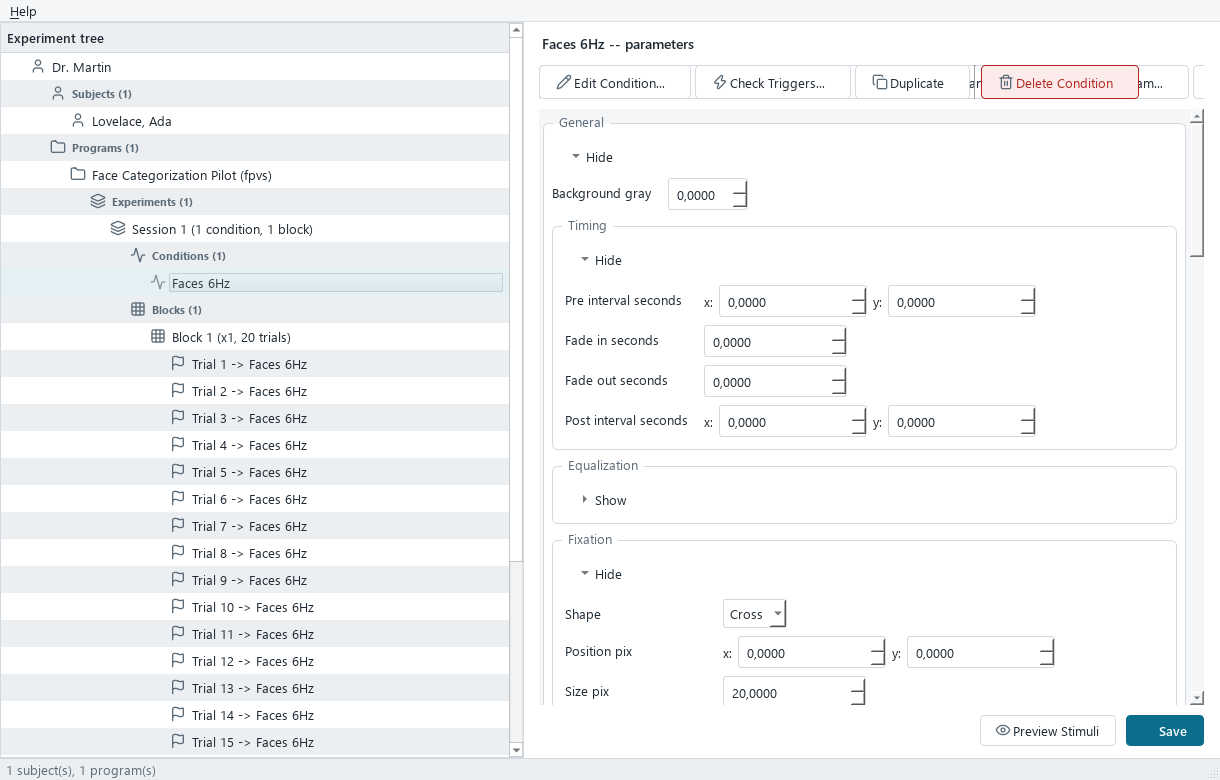
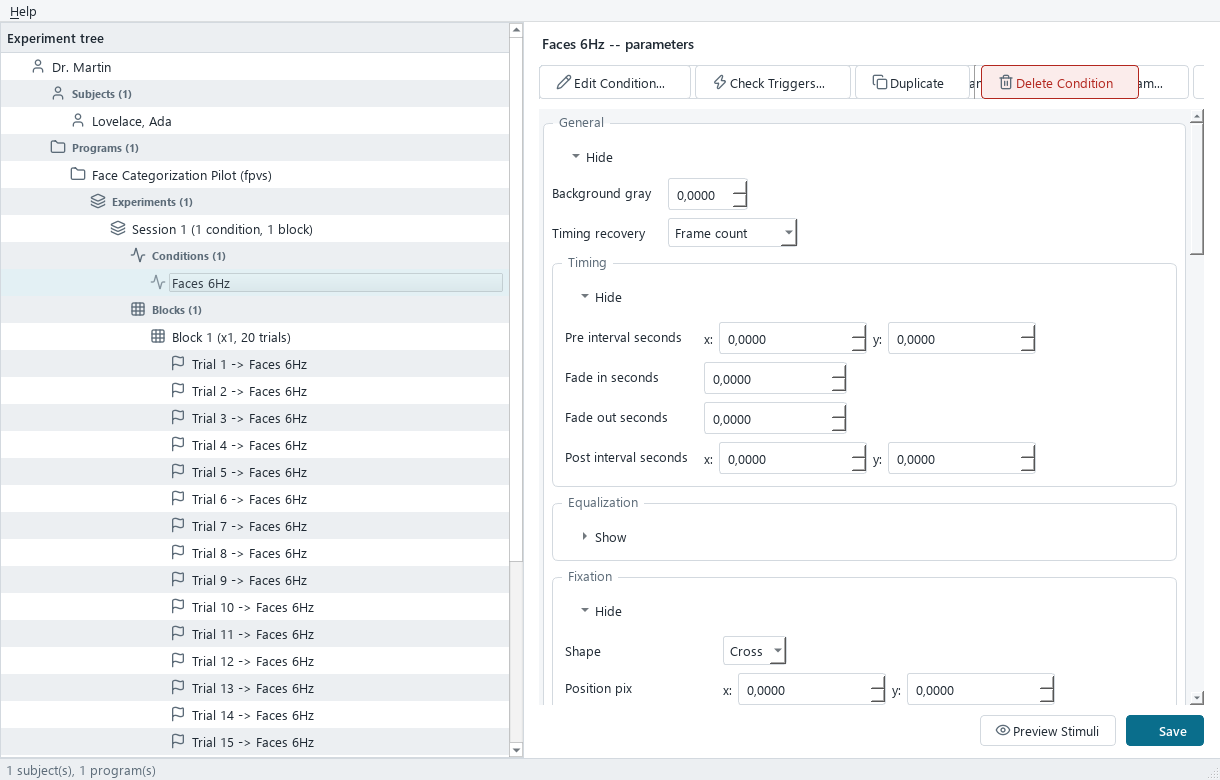
docs: document dropped-frame readout and timing_recovery
Sync the user guide and tutorial for the two user-facing additions:
- the per-sequence dropped-frame verdict in the Trigger / Event Log viewer,
- the timing_recovery Condition parameter (frame_count vs realtime_catchup).

Regenerate the condition-form / create-instance / run-results screenshots
(they summarise Condition params, now including the new field at schema v11).

diff --git a/docs/GUIDE_UTILISATEUR.md b/docs/GUIDE_UTILISATEUR.md
@@ -652,6 +652,21 @@ matériel : `enabled` (on par défaut), `toggle_strategy` (`every_stimulus_onset
 /`oddball_onset_only`), `corner`, `margin_pix`, `size_pix`, `color_on`/`color_off`, `position_pix`
 (override).
 
+**Récupération de timing (`timing_recovery`)** — que faire si le moniteur **saute une image** en cours
+de séquence :
+- `frame_count` (**défaut, recommandé**) — chaque stimulus est montré pour son nombre exact d'images,
+  donc une image sautée décale toute la fin de la séquence d'une image. La **régularité des onsets** et
+  l'**ordre des oddballs** sont préservés ; le décalage net est un simple offset constant, inoffensif
+  pour l'analyse en fréquence.
+- `realtime_catchup` — raccourcit (ou saute) le stimulus suivant pour rester calé sur le **temps réel**
+  (la stratégie de l'ancien programme Java) : la cadence reste verrouillée au temps absolu, au prix
+  d'un stimulus corrompu ou sauté à l'endroit du pépin (ce qui peut perturber la cadence oddball). Un
+  stimulus sauté est journalisé (`stimulus_skipped_catchup`).
+
+> *Flux unique seulement* : `realtime_catchup` est refusé au save/figeage si un `second_stream` ou un
+> `additional_streams` est actif (pas de saut « en phase » bien défini entre flux simultanés). Laissez
+> sur `frame_count` sauf besoin spécifique de verrouiller la cadence au temps réel.
+
 **Contrôles anti-adaptation bas niveau :**
 - **`position_jitter`** — position aléatoire de chaque image dans une région (`rectangle`/`disk`),
   `per` = `stimulus`/`trial`. Seule l'image bouge (fixation et photodiode restent fixes).
@@ -754,7 +769,10 @@ l'essentiel de la construction sans passer par l'arbre.*
   vide.
 - **Journal d'événements** (`Trigger / Event Log...` depuis un Run) : onglets **Summary** et
   **Timeline** — chaque événement horodaté (flips, `trigger_sent`, onsets stimulus/oddball, marqueurs
-  de segment/overlay, événements des tâches attentionnelles).
+  de segment/overlay, événements des tâches attentionnelles). En haut, un **verdict « images
+  perdues »** signale d'un coup d'œil si le timing a été propre, ou combien d'images ont été perdues et
+  dans combien de séquences ; l'onglet **Summary** détaille la ou les **séquences** concernées (une
+  image perdue = une frame affichée en retard).
 - **Où sont mes données ?** Dans le dossier `data\` **à côté de l'application** : `data\xpman.db`
   (base SQLite : Profiles/Subjects/Programs/…/Results) et `data\runs\` (un journal Parquet + CSV par
   Run). Ce dossier est ancré au dossier de l'app, pas au dossier courant du shell.

diff --git a/docs/tutorial.md b/docs/tutorial.md
@@ -64,6 +64,11 @@ measured yet (see [`docs/verification_protocol.md`](verification_protocol.md)).
 - **Base/oddball frequency tagging** on the **monitor frame clock**: rates are quantised to whole
   frames (`frames_per_cycle = round(refresh/freq)`) and the *achieved* rate is reported; a
   **frame-exactness advisory** warns when a requested rate can't sit exactly on the FFT bin.
+- **Dropped-frame handling** (`timing_recovery`, single-stream) — on a dropped frame, either
+  `frame_count` (default: keep each stimulus its exact frame count, let the sequence slide one frame
+  late, preserving onset regularity and oddball order) or `realtime_catchup` (shorten/skip upcoming
+  stimuli to stay pinned to real time, the legacy app's strategy). Dropped frames are surfaced per
+  sequence in the run's Trigger / Event Log viewer.
 - **Stimulus pools** by subdirectory + filename glob (`base_selector`/`oddball_selector`) — any image
   set laid out in folders; no baked-in "faces vs objects" convention.
 - **Contrast (opacity) modulation** — sinusoidal fade of each image against the background so onsets
